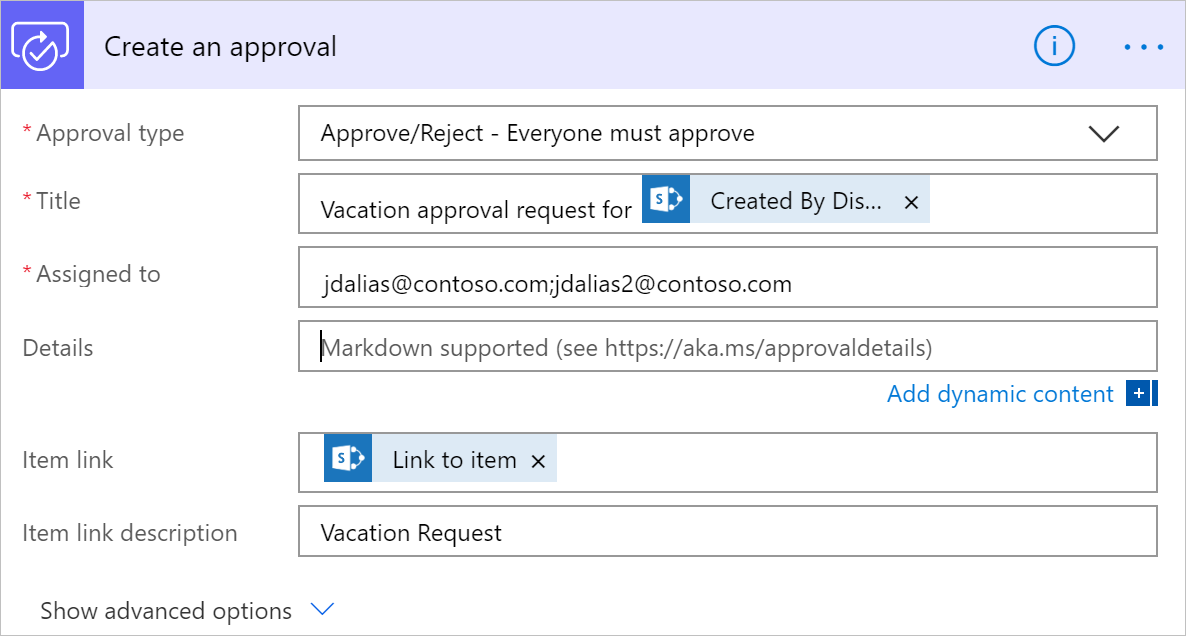
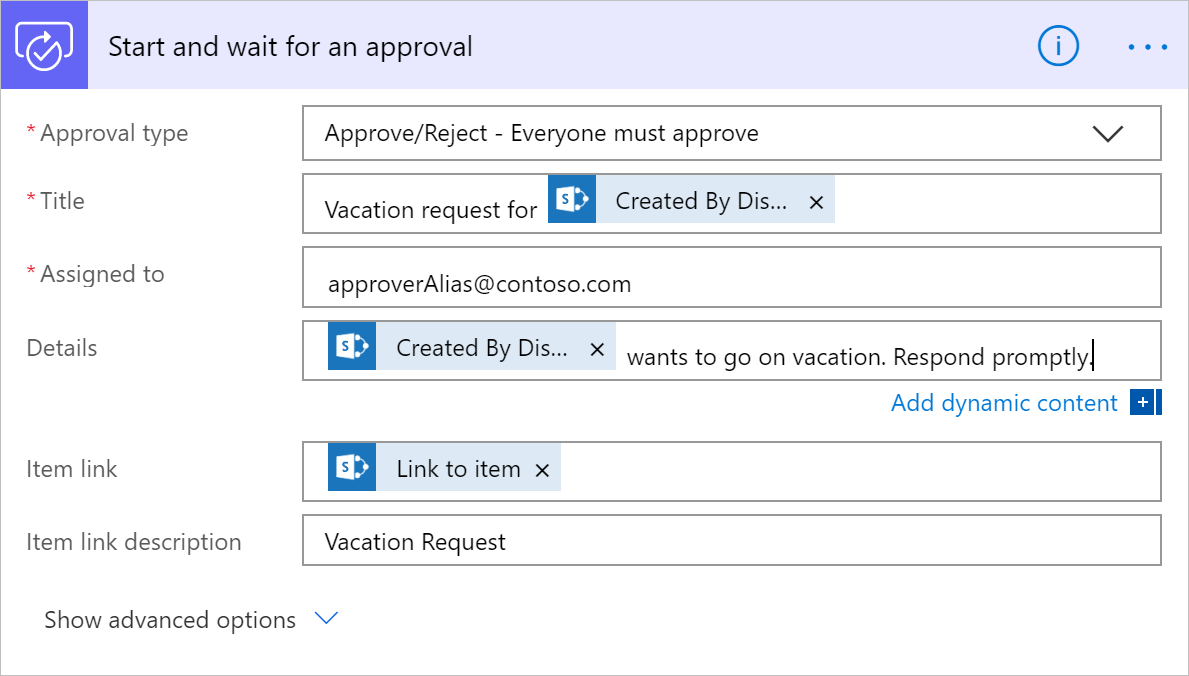
Refreshing content

diff --git a/articles/all-assigned-must-approve.md b/articles/all-assigned-must-approve.md
@@ -71,13 +71,13 @@ Sign into [Power Automate](https://flow.microsoft.com), and then perform the fol
     The **Mail** token is located under the **Get manager (V2)** category of the **Dynamic content** list. This token dynamically provides access to the email address for the manager's manager.
 
     You can also rename the **Get manager (V2) 2** card to something meaningful like "Skip level manager".
-1. Select **New step**, add the **Create an approval** action, and then select **Approve/Reject - Everyone must approve** from the **Approval type** list.
+1. Select **New step**, add the **Start and wait for an approval** action, and then select **Approve/Reject - Everyone must approve** from the **Approval type** list.
 
    > [!IMPORTANT]
    > If any approver rejects, the approval request is considered rejected for all approvers.
    >
    >
-1. Use the following table as a guide to complete the **Create an approval** card.
+1. Use the following table as a guide to complete the **Start and wait for an approval** card.
 
    | Field | Description |
    | --- | --- |
@@ -89,22 +89,29 @@ Sign into [Power Automate](https://flow.microsoft.com), and then perform the fol
    |  Item link description |A text description for the **Item link**. |
 
    > [!TIP]
-   > The **Create an approval** action provides several tokens, including **Response** and **Response summary**. Use these tokens in your flow to provide rich reporting of the results from a run of an approval request flow.
+   > The **Start and wait for an approval** action provides several tokens, including **Responses** and **Outcome**. Use these tokens in your flow to provide rich reporting of the results from a run of an approval request flow.
    >
    >
 
-    The **Create an approval** card is a template for the approval request that's sent to approvers. Configure it in a way that's useful for your organization. Here's an example.
+    The **Start and wait for an approval** card is a template for the approval request that's sent to approvers. Configure it in a way that's useful for your organization. Here's an example.
 
-    ![Create an approval](media/all-assigned-must-approve/start-an-approval-card.png)
+    ![Start and wait for an approval](media/all-assigned-must-approve/start-an-approval-card.png)
 
-1. Add the **Office 365 Outlook - Send an email** action, and then configure it to send an email with the results of the request.
+    When a flow with the **Start and wait for an approval** action is configured with **Approve/Reject - Everyone must approve**, it waits until all **Assigned to** approve or at least one **Assigned to** rejects the approval request.
 
-    Here's an example of what the **Send an email** card might look like.
+    >[!TIP]
+    >Add a **Condition** step if you want your flow to check the response of the approval request and perform different actions based on the **Outcome**. The **Outcome** can be **Approve** or **Reject**. 
+
+    Let's continue with the flow and send an email when a decision is made on the approval request.
+
+1. Select **New Step**, search for "send an email", add the Office 365 Outlook **Send an email (V2)** action, and then configure the action to send an email with the results of the request to the person who wants to go on vacation.
+
+    Here's an example of what the **Send an email (V2)** card might look like.
 
     ![send an email](media/all-assigned-must-approve/send-an-email-card.png)
 
 > [!NOTE]
-> Any action that follows the **Create an approval** action runs based on your selection in the **Approval type** list on the **Create an approval** card. The following table lists the behavior based on your selection.
+> Any action that follows the **Start and wait for an approval** action runs based on your selection in the **Approval type** list on the **Start and wait for an approval** card. The following table lists the behavior based on your selection.
 >
 >
 
@@ -112,18 +119,18 @@ Sign into [Power Automate](https://flow.microsoft.com), and then perform the fol
 
 | Approval type | Behavior |
 | --- | --- |
-| Approve/Reject - Everyone must approve | Approval or rejection is needed by **all** approvers to complete the request. </p> The actions that follow the **Create an approval** action run after **all** of the approvers decide.|
-| Approve/Reject - First to respond | Approval or rejection by any approver completes the request.  </p> The actions that follow the **Create an approval** action run after any one of the approvers decides.|
+| Approve/Reject - Everyone must approve | Approval or rejection is needed by **all** approvers to complete the request. </p> The actions that follow the **Start and wait for an approval** action run after **all** of the approvers approve, or when a single rejection is done.|
+| Approve/Reject - First to respond | Approval or rejection by any approver completes the request.  </p> The actions that follow the **Start and wait for an approval** action run after any one of the approvers decides.|
 | Custom reponses - Wait for all responses | All appovers must respond to complete the process. |
 | Custom reponses - Wait for one response | A response from any approver completes the process. |
 
-At the top of the screen, select **CrSave** to save your flow.
+At the top of the screen, select **Save** to save your flow.
 
 Congratulations, your flow is complete! If you followed along, your flow resembles this image.
 
 ![overall flow image](media/all-assigned-must-approve/overall-flow.png)
 
-Now, whenever an item is added to your SharePoint list, or if an item changes, your flow triggers and sends approval requests to all approvers whom are listed in the **Assigned to** box of the **Create an approval** card. Your flow sends approval requests via the Power Automate mobile app and via email. The person who creates the item in SharePoint gets an email that summarizes the results, clearly indicating if the request was approved or rejected.
+Now, whenever an item is added to your SharePoint list, or if an item changes, your flow triggers and sends approval requests to all approvers whom are listed in the **Assigned to** box of the **Start and wait for an approval** card. Your flow sends approval requests via the Power Automate mobile app and via email. The person who creates the item in SharePoint gets an email that summarizes the results, clearly indicating if the request was approved or rejected.
 
 Here's an example of the approval request that's sent to each approver.
 
